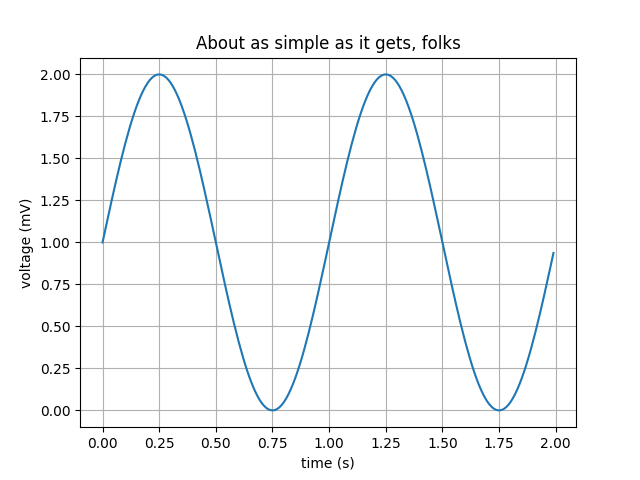
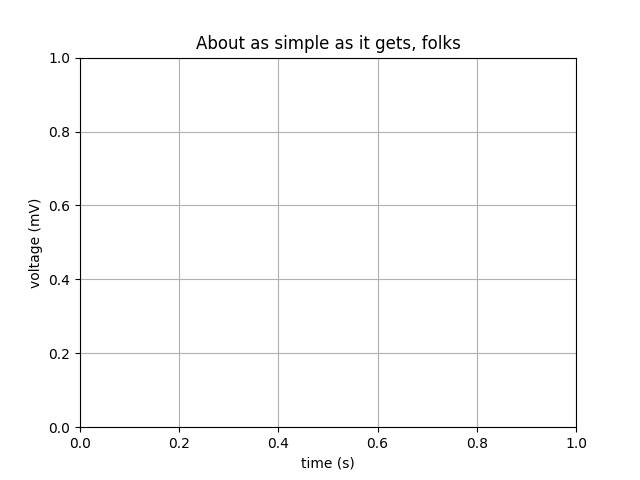
Lab2: 21.03.2018 DONE: ... comments; NEXT: IO && strings... TODO: pipenv for windows in slides

diff --git a/LIVE/labs/test_folder/plot.py b/LIVE/labs/test_folder/plot.py
@@ -1,0 +1,14 @@
+import matplotlib.pyplot as plt
+import numpy as np
+
+
+# t = np.arange(0.0, 2.0, 0.01)
+# s = 1 + np.sin(2*np.pi*t)
+# plt.plot(t, s)
+
+plt.xlabel('time (s)')
+plt.ylabel('voltage (mV)')
+plt.title('About as simple as it gets, folks')
+plt.grid(True)
+plt.savefig("test.png")
+plt.show()

diff --git a/LIVE/labs/test_folder/test.py b/LIVE/labs/test_folder/test.py
@@ -1,2 +1,1 @@
-user_name = input("Please, enter your name:")
-print("Hello", user_name )
+'Jony\'s \n house'
